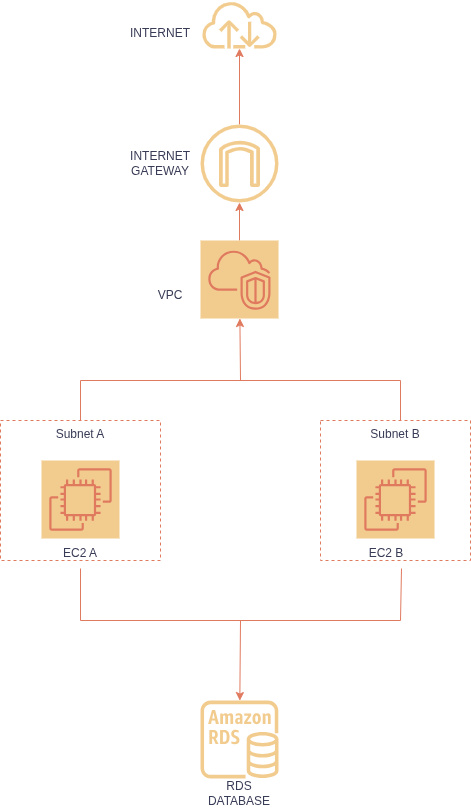
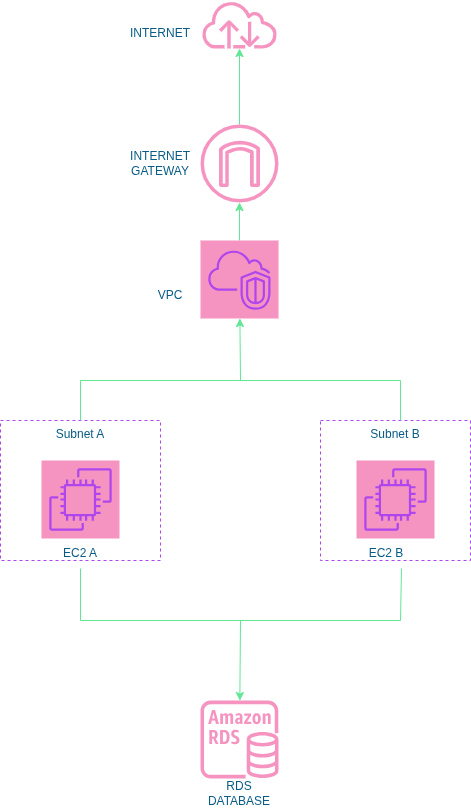
Increased diagram visibility

diff --git a/README.md b/README.md
@@ -21,7 +21,7 @@ This project is a practical, real-world implementation and extension of a simila
 The following diagram illustrates the high-level architecture deployed by this Terraform configuration:
 
 <div align="center">
-  <img src="sec_ec2_rds.png" alt="architectural_diagram"/>
+  <img src="ec2_rds_diag1.png" alt="architectural_diagram"/>
 </div>
 
 **Description:**
